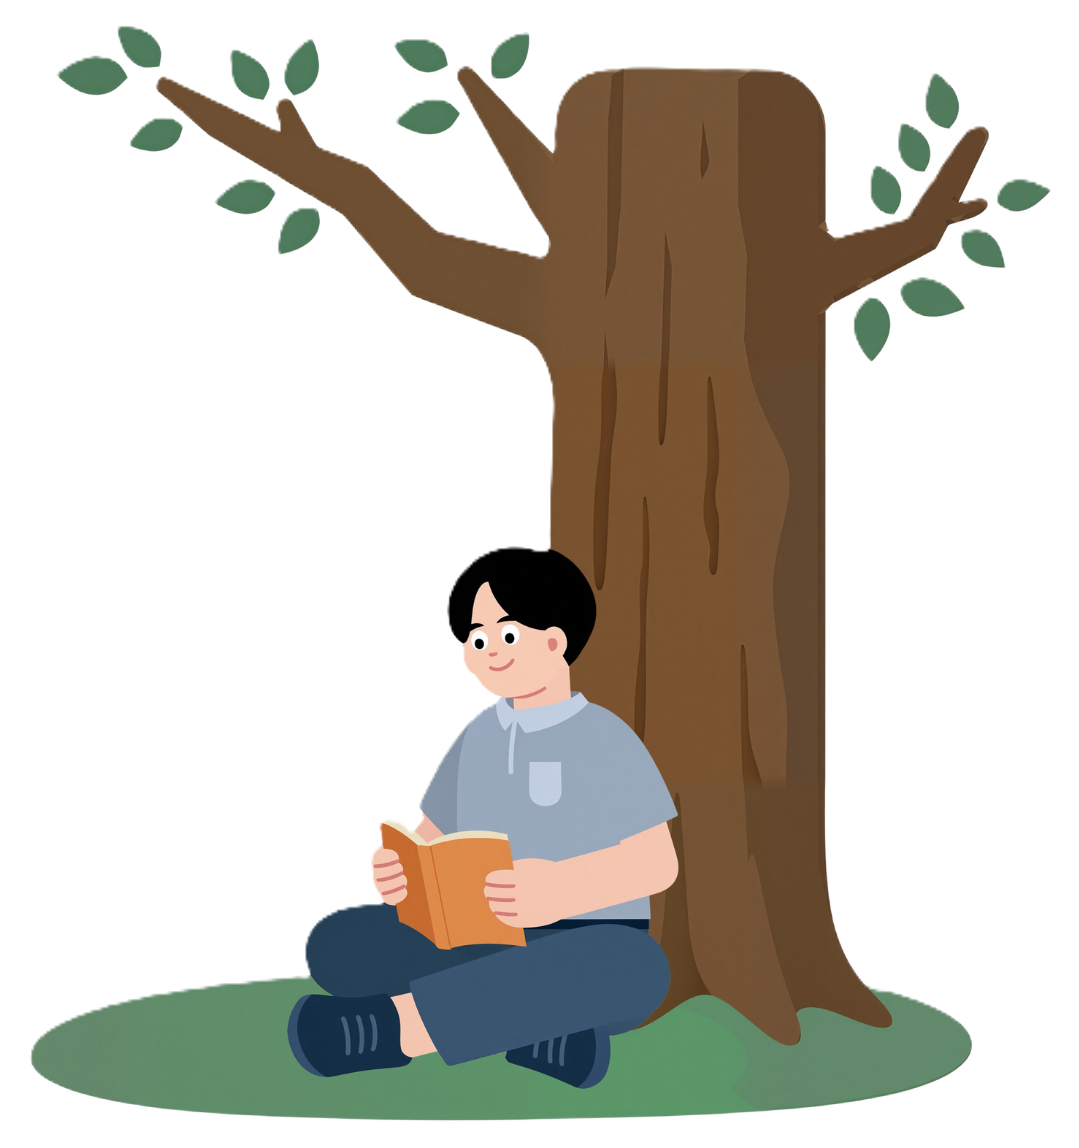
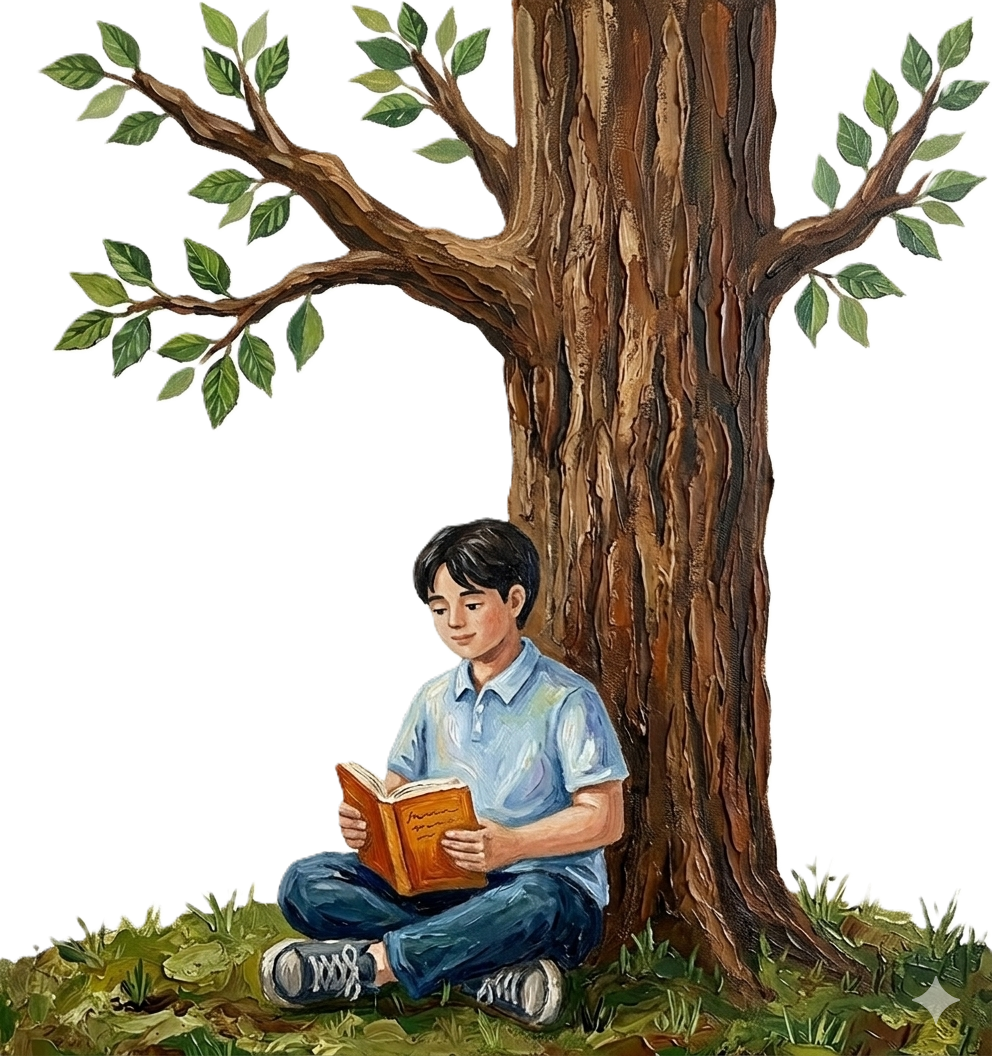
Remove unused botanical image from landing screen and update landing-hero-books image for improved visual consistency.

diff --git a/src/components/landing-screen.tsx b/src/components/landing-screen.tsx
@@ -239,13 +239,6 @@ export function LandingScreen({ onSubmit, isLoading, theme, onThemeChange }: Lan
       </div>
       </div>
     </div>
-    {/* Outside .landing-route-enter: transform on that ancestor breaks viewport-fixed; z-0 paints under shell z-10 */}
-    <img
-      src="/landing-branch-botanical.png"
-      alt=""
-      aria-hidden
-      className="pointer-events-none hidden max-md:block max-md:fixed max-md:z-0 max-md:bottom-0 max-md:right-0 max-md:w-[min(75vw,35rem)] max-md:max-h-[min(50vh,30rem)] h-auto max-md:object-contain max-md:object-right-bottom opacity-[0.8] dark:opacity-[0.0] select-none"
-    />
     </>
   )
 }